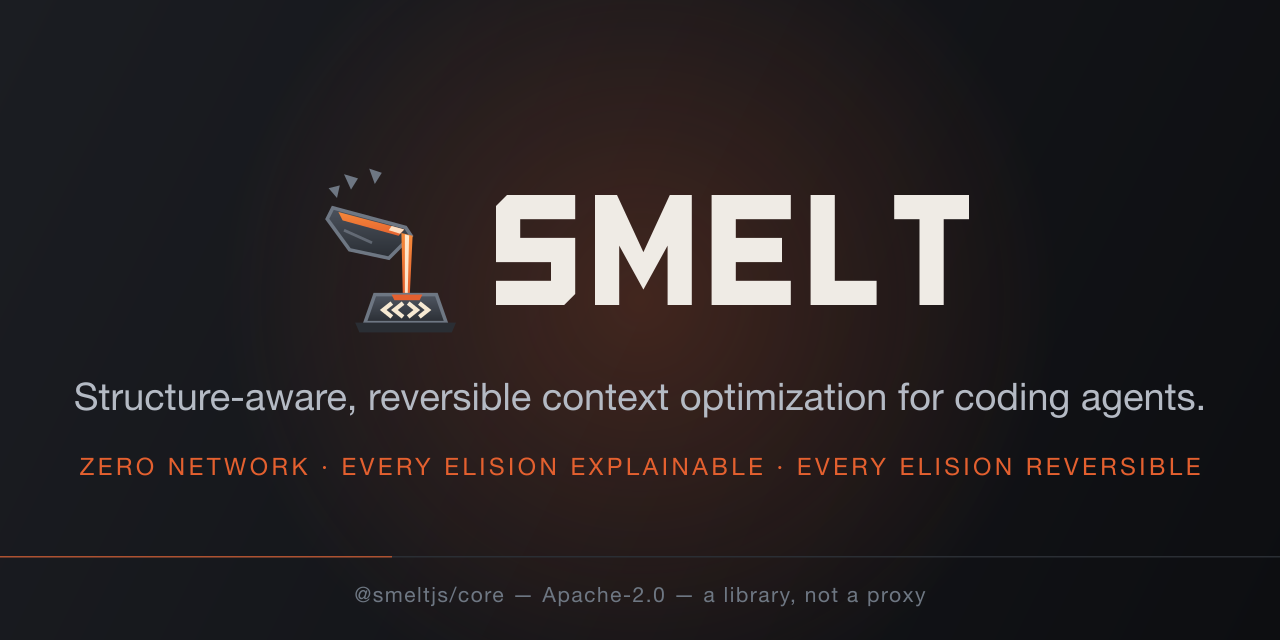
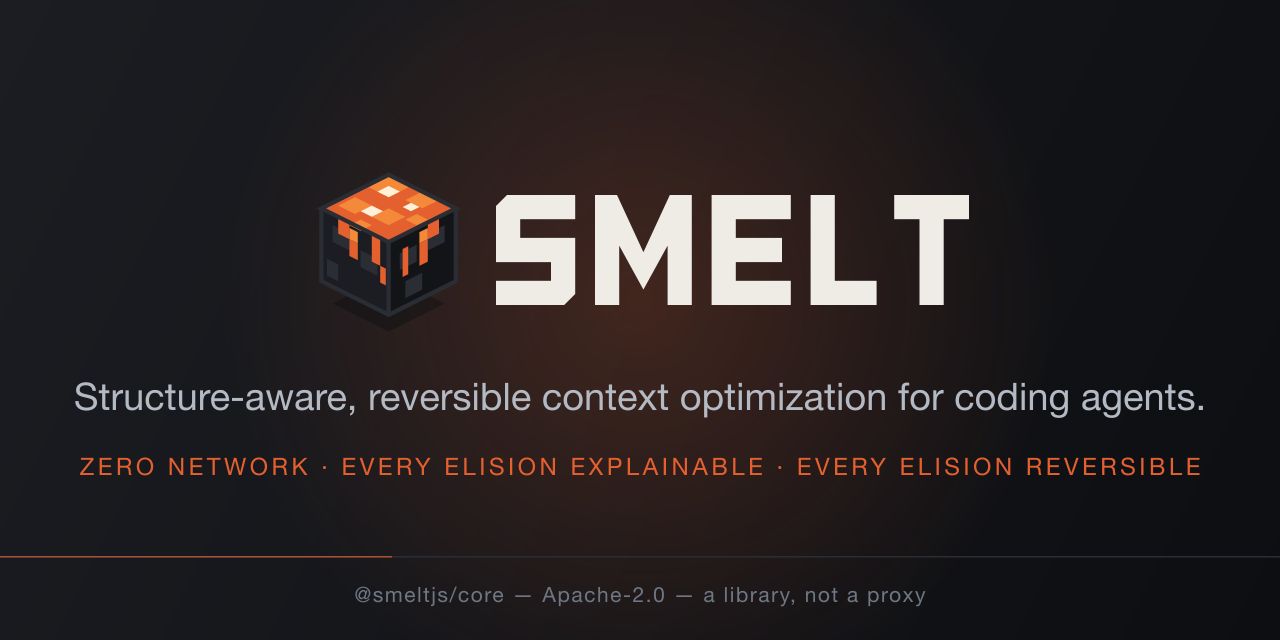
feat(assets): mark v3 — the lava block: an isometric voxel cube, molten top, ember cracks
Voxel-flat original geometry on the iso grid; palette rules hold (ember-only
accent, scarce white-hot, no runes). Four carriers + PNGs regenerated.

Changed region(s): [[0.25, 0.25, 0.375, 0.5312]]

diff --git a/assets/PALETTE.md b/assets/PALETTE.md
@@ -1,10 +1,11 @@
 # smelt — palette and marks
 
 Every colour and every mark in this repo comes from one place: a **forge**. Charcoal
-ground, iron mass, a molten pour, a white-hot core. The mark is **the pour**: a tilted
-crucible, a stream that tapers as it falls, and a small dense ingot stamped with
-smelt's own marker delimiters, `<<` `>>` — the glyph the model actually sees in a
-smelted prompt. Big in, small out, nothing lost.
+ground, iron mass, molten heat, a white-hot core. The mark is **the lava block**: an
+isometric voxel cube — molten top, charcoal stone sides, ember cracks stepping down.
+Voxel-flat on purpose: chunky tiles on the iso grid, no gradients on the faces, so it
+reads at 16 px. Original geometry — an homage to blocky-game aesthetics, copying no
+one's texture.
 
 The Norse reading is _material_, not typographic — there are no runic glyphs anywhere
 in these files, and there will not be: sowilo (ᛋ) is doubled in the SS insignia and the
@@ -22,7 +23,7 @@ better than a glyph.
 | `iron-dark`     | `#2A2E34` | The unlit bottom of iron. Gradient stop, hairline rules.                        |
 | `iron-light`    | `#6E7783` | Keylines around iron, wordmark letters, muted text on either ground.            |
 | `slag`          | `#9AA1AC` | Secondary prose on dark.                                                        |
-| `ember`         | `#E4602F` | **The accent.** One accent, used as heat: the melt, the stream, the seam.       |
+| `ember`         | `#E4602F` | **The accent.** One accent, used as heat: the melt tiles, the cracks, the glow. |
 | `forge`         | `#F5893A` | Ember's lit edge. Gradient stop and hover state only — never a fill on its own. |
 | `white-hot`     | `#FFF1D9` | The hottest 5% of any composition. Highlights, the core of the mouth.           |
 | `ash`           | `#EFEBE5` | Type on charcoal; light-mode ground.                                            |
@@ -59,7 +60,7 @@ canonical artefact for that one.
 
 The mark's geometry is duplicated in `smelt-mark.svg`, `smelt-wordmark.svg`,
 `smelt-icon.svg` and `smelt-social.svg`, because each has to stand alone as a single
-file. Change the pour and you change four files. That is the trade for
+file. Change the block and you change four files. That is the trade for
 self-containment; the alternative is a build step for four static images.
 
 ## Regenerating the PNGs
